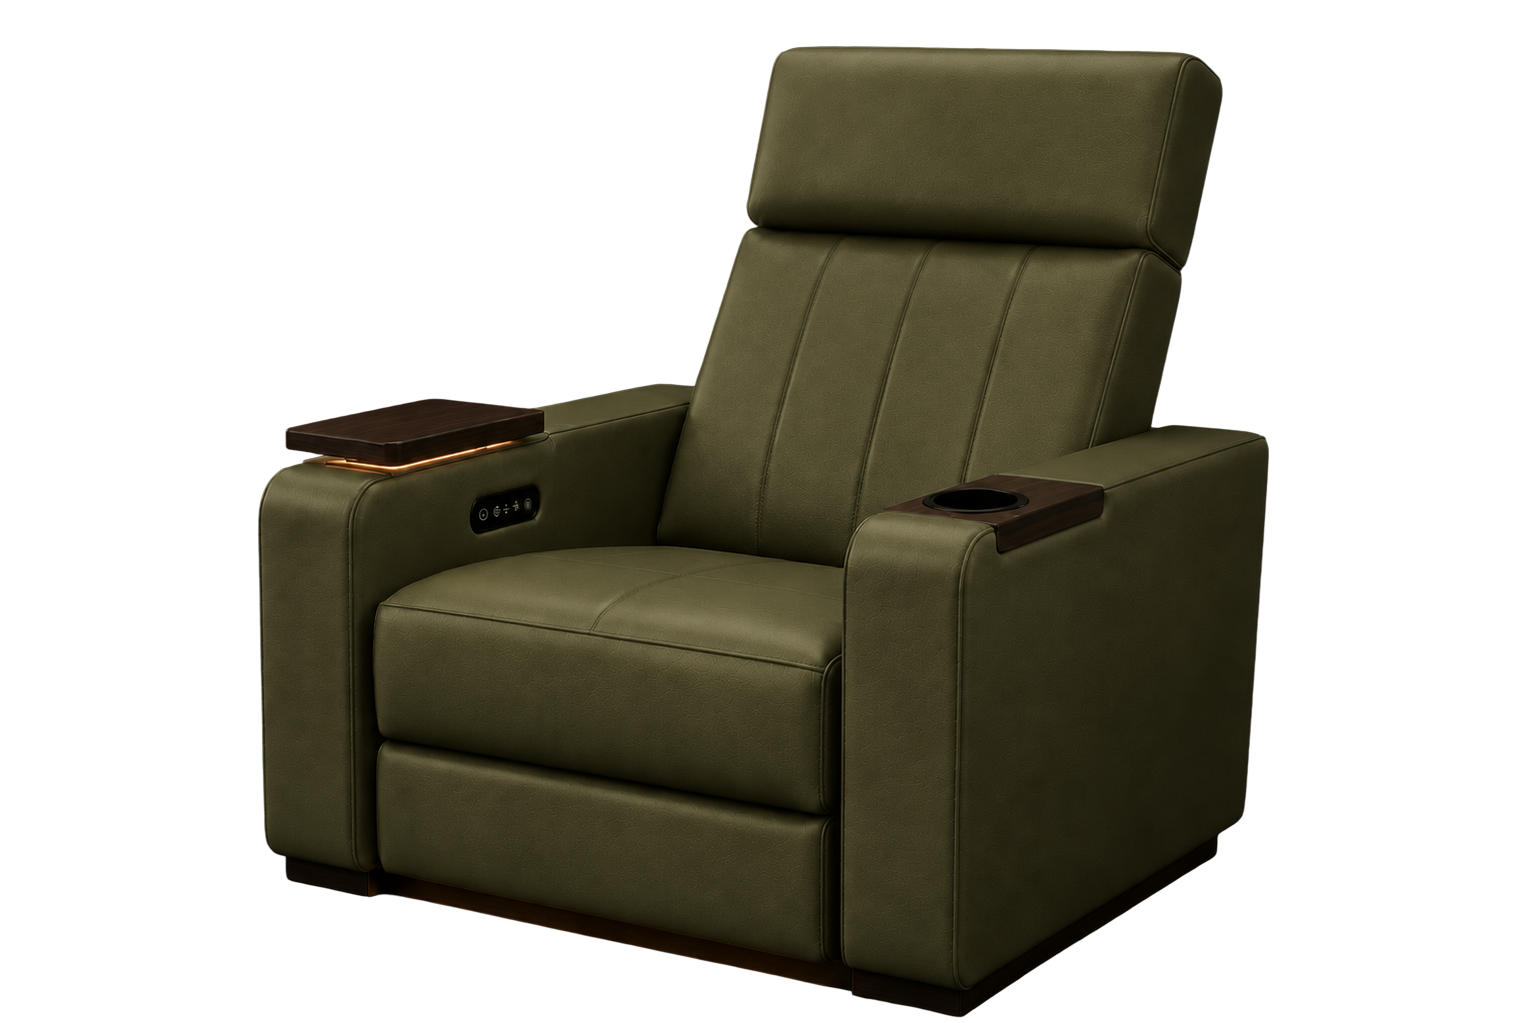
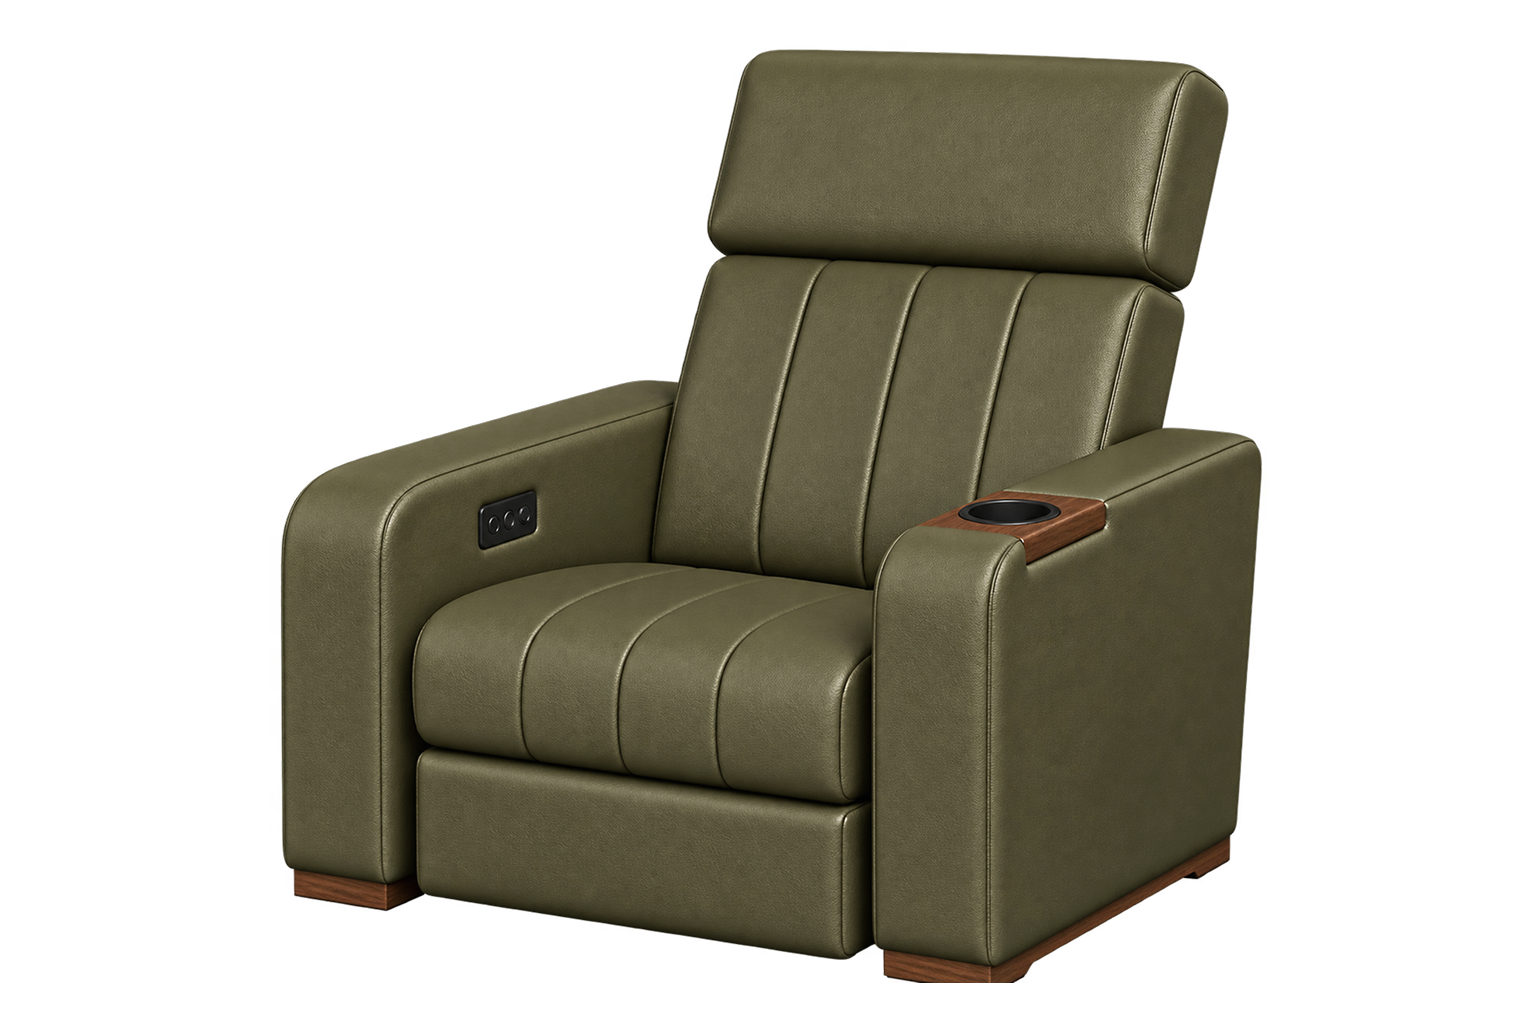
Update product page order, Vesper equipment, and Filozofia Henry photos per client feedback
- Reorder product page sections: features before materials, add Technical features as a materials tab, reorder/rename material tabs
- Add HENRY Command as first Vesper Solo equipment option
- Replace Nova Solo leather color preview photos with no-table cutouts
- Update Filozofia Henry copy, values photos, gallery photos, and manifesto image (transparent, no shade overlay)

diff --git a/files-mentioned-by-the-user-asset/outputs/henry-home-prototype/app/components/product-experience.tsx b/files-mentioned-by-the-user-asset/outputs/henry-home-prototype/app/components/product-experience.tsx
@@ -5,7 +5,7 @@ import type { CSSProperties, PointerEvent as ReactPointerEvent } from "react";
 import Link from "next/link";
 import type { HenryCollection, HenryProduct } from "../collections-data";
 
-type MaterialKey = "leather" | "wood" | "quilting" | "combinations";
+type MaterialKey = "leather" | "wood" | "quilting" | "combinations" | "technical";
 type MaterialSwatch = { name: string; swatchImg: string; previewImg: string };
 
 const novaRoot = "/media/product-pages/nova-solo";
@@ -90,15 +90,16 @@ const equipmentOptions = [
 const vesperSoloEquipmentRoot = "/media/product-pages/vesper-solo/equipment";
 
 const vesperSoloEquipmentOptions = [
-  { key: "poduszka", number: "01", title: "Poduszka Henry", description: "Dodatkowe wsparcie i komfort w dowolnym miejscu fotela.", image: `${vesperSoloEquipmentRoot}/vesper-solo-equipment-01-poduszka-henry.webp` },
-  { key: "stolik", number: "02", title: "Stolik Vesper", description: "Praktyczny stolik boczny dopasowany do bryły fotela.", image: `${vesperSoloEquipmentRoot}/vesper-solo-equipment-02-stolik-vesper.webp` },
-  { key: "zaglowek", number: "03", title: "Regulacja zagłówka Vesper", description: "Precyzyjne dopasowanie podparcia głowy i szyi.", image: `${vesperSoloEquipmentRoot}/vesper-solo-equipment-03-regulacja-zaglowka.webp` },
-  { key: "podgrzewanie", number: "04", title: "Podgrzewanie oparcia i siedziska", description: "Delikatne ciepło w oparciu i siedzisku.", image: `${vesperSoloEquipmentRoot}/vesper-solo-equipment-04-podgrzewanie.webp` },
-  { key: "grzanie-chlodzenie", number: "05", title: "Funkcja grzania i chłodzenia", description: "Dwukierunkowa regulacja temperatury na życzenie.", image: `${vesperSoloEquipmentRoot}/vesper-solo-equipment-05-grzanie-chlodzenie.webp` },
-  { key: "oswietlenie", number: "06", title: "Dodatkowe oświetlenie ambientowe", description: "Subtelne podświetlenie budujące nastrój wieczorem.", image: `${vesperSoloEquipmentRoot}/vesper-solo-equipment-06-oswietlenie.webp` },
-  { key: "glosnik", number: "07", title: "Głośnik", description: "Dźwięk osobisty zintegrowany z fotelem.", image: `${vesperSoloEquipmentRoot}/vesper-solo-equipment-07-glosnik.webp` },
-  { key: "schowek", number: "08", title: "Schowek w podłokietniku", description: "Miejsce na drobiazgi zawsze pod ręką.", image: `${vesperSoloEquipmentRoot}/vesper-solo-equipment-08-schowek.webp` },
-  { key: "niezalezne-mechanizmy", number: "09", title: "Niezależne mechanizmy regulacji", description: "Oparcie i podnóżek regulowane niezależnie od siebie.", image: `${vesperSoloEquipmentRoot}/vesper-solo-equipment-09-niezalezne-mechanizmy.webp` },
+  { key: "henry-command", number: "01", title: "HENRY Command", description: "Inteligentny panel sterowania. Centralne sterowanie funkcjami fotela z poziomu intuicyjnego ekranu dotykowego. Pozycja fotela, pamięć ustawień, masaż, ogrzewanie i Ambient Lighting — wszystko w jednym miejscu.", image: `${vesperSoloEquipmentRoot}/vesper-solo-equipment-00-henry-command.png` },
+  { key: "poduszka", number: "02", title: "Poduszka Henry", description: "Dodatkowe wsparcie i komfort w dowolnym miejscu fotela.", image: `${vesperSoloEquipmentRoot}/vesper-solo-equipment-01-poduszka-henry.webp` },
+  { key: "stolik", number: "03", title: "Stolik Vesper", description: "Praktyczny stolik boczny dopasowany do bryły fotela.", image: `${vesperSoloEquipmentRoot}/vesper-solo-equipment-02-stolik-vesper.webp` },
+  { key: "zaglowek", number: "04", title: "Regulacja zagłówka Vesper", description: "Precyzyjne dopasowanie podparcia głowy i szyi.", image: `${vesperSoloEquipmentRoot}/vesper-solo-equipment-03-regulacja-zaglowka.webp` },
+  { key: "podgrzewanie", number: "05", title: "Podgrzewanie oparcia i siedziska", description: "Delikatne ciepło w oparciu i siedzisku.", image: `${vesperSoloEquipmentRoot}/vesper-solo-equipment-04-podgrzewanie.webp` },
+  { key: "grzanie-chlodzenie", number: "06", title: "Funkcja grzania i chłodzenia", description: "Dwukierunkowa regulacja temperatury na życzenie.", image: `${vesperSoloEquipmentRoot}/vesper-solo-equipment-05-grzanie-chlodzenie.webp` },
+  { key: "oswietlenie", number: "07", title: "Dodatkowe oświetlenie ambientowe", description: "Subtelne podświetlenie budujące nastrój wieczorem.", image: `${vesperSoloEquipmentRoot}/vesper-solo-equipment-06-oswietlenie.webp` },
+  { key: "glosnik", number: "08", title: "Głośnik", description: "Dźwięk osobisty zintegrowany z fotelem.", image: `${vesperSoloEquipmentRoot}/vesper-solo-equipment-07-glosnik.webp` },
+  { key: "schowek", number: "09", title: "Schowek w podłokietniku", description: "Miejsce na drobiazgi zawsze pod ręką.", image: `${vesperSoloEquipmentRoot}/vesper-solo-equipment-08-schowek.webp` },
+  { key: "niezalezne-mechanizmy", number: "10", title: "Niezależne mechanizmy regulacji", description: "Oparcie i podnóżek regulowane niezależnie od siebie.", image: `${vesperSoloEquipmentRoot}/vesper-solo-equipment-09-niezalezne-mechanizmy.webp` },
 ];
 
 const novaLeatherSwatches: MaterialSwatch[] = ["Ivory Mist", "Warm Sand", "Natural Taupe", "Stone", "Cognac", "Olive", "Forest", "Graphite", "Onyx", "Midnight", "Charcoal", "Bordeaux"].map((name, index) => {
@@ -116,11 +117,12 @@ const novaQuiltingSwatches: MaterialSwatch[] = ["Diamond", "Channel", "Chevron",
   return { name, swatchImg: file, previewImg: file };
 });
 
-const materialTabs: Array<{ key: MaterialKey; label: string }> = [
-  { key: "leather", label: "Skóra" },
-  { key: "wood", label: "Drewno" },
-  { key: "quilting", label: "Pikowanie" },
+const materialTabs: Array<{ key: MaterialKey; label: string; captionLabel?: string }> = [
   { key: "combinations", label: "Opcje wyposażenia" },
+  { key: "leather", label: "Barwa skóry", captionLabel: "Naturalna włoska skóra Mezzo Fiore" },
+  { key: "wood", label: "Wykończenie drewna" },
+  { key: "quilting", label: "Styl pikowania" },
+  { key: "technical", label: "Wymiary" },
 ];
 
 // Bottom edge (top% + height%) of each mosaic slot box{A..F} in .product-feature-box,
@@ -185,8 +187,11 @@ export function ProductExperience({ collection, product, isReady, isHero }: { co
     wood: isReady ? novaWoodSwatches : [],
     quilting: isReady ? novaQuiltingSwatches : [],
     combinations: [],
+    technical: [],
   }), [isReady, product.leatherSwatches]);
-  const activeMaterialLabel = materialTabs.find((item) => item.key === materialKey)?.label ?? materialTabs[0].label;
+  const activeMaterial = materialTabs.find((item) => item.key === materialKey) ?? materialTabs[0];
+  const activeMaterialLabel = activeMaterial.label;
+  const activeMaterialCaption = activeMaterial.captionLabel ?? activeMaterial.label;
   const activeSwatches = materialSwatches[materialKey];
   const activeEquipmentOptions = isVesperSolo ? vesperSoloEquipmentOptions : equipmentOptions;
   const activeEquipmentData = activeEquipmentOptions[Math.min(activeEquipmentOption, activeEquipmentOptions.length - 1)];
@@ -321,6 +326,41 @@ export function ProductExperience({ collection, product, isReady, isHero }: { co
         </div>
       </section>
 
+      <section className={`product-features${isVesperSolo ? " product-features--vesper-solo" : ""}`}>
+        {isHero && (
+          <header data-product-reveal>
+            <h2>Luksus w standardzie</h2>
+          </header>
+        )}
+        <div className="product-features__grid-clip" style={{ height: featureGridClipHeight ? `${featureGridClipHeight}px` : undefined }}>
+        <div className="product-features__grid" ref={featureGridRef}>
+          {isHero ? (
+            activeFeatureCards.map((feature, index) => (
+              <article className={`product-feature-box box${String.fromCharCode(65 + index)}${featuresReady ? "" : " is-placeholder"}`} data-product-reveal key={feature.title} style={{ "--reveal-delay": `${(index % 2) * 110}ms` } as CSSProperties}>
+                <figure>
+                  {featuresReady ? <img src={feature.image} alt={feature.title} /> : <><span>H</span><small>Materiały w przygotowaniu</small></>}
+                </figure>
+                <div className="product-feature-box__caption">
+                  <h3>{feature.title}</h3>
+                  <p>{feature.copy}</p>
+                </div>
+              </article>
+            ))
+          ) : (
+            productPhotoCards.map((card, index) => (
+              <article className={`product-feature-box box${String.fromCharCode(65 + index)}`} data-product-reveal key={card.title} style={{ "--reveal-delay": `${(index % 2) * 110}ms` } as CSSProperties}>
+                <figure><img src={product.image} alt={product.name} /></figure>
+                <div className="product-feature-box__caption">
+                  <h3>{card.title}</h3>
+                  <p>{card.copy}</p>
+                </div>
+              </article>
+            ))
+          )}
+        </div>
+        </div>
+      </section>
+
       {isHero && (
       <section className="product-materials">
         <header data-product-reveal>
@@ -357,6 +397,10 @@ export function ProductExperience({ collection, product, isReady, isHero }: { co
                 </figure>
               </article>
             </div>
+          ) : materialKey === "technical" ? (
+            <figure className={`material-lab__technical${isReady ? "" : " is-placeholder"}`}>
+              {isReady ? <img src={`${novaRoot}/dimensions.png`} alt="Nova Solo — widok z przodu, boku i z góry z wymiarami" /> : <><span>H</span><small>Rysunek techniczny w przygotowaniu</small></>}
+            </figure>
           ) : activeSwatches.length > 0 ? (
             <div className="material-lab__content">
               <div className="material-lab__swatches">
@@ -375,7 +419,7 @@ export function ProductExperience({ collection, product, isReady, isHero }: { co
                     <img key={`current-${activeSwatchData.previewImg}`} className="material-lab__preview-img is-current" src={activeSwatchData.previewImg} alt={`${product.name} — ${activeSwatchData.name}`} />
                   )}
                 </div>
-                <figcaption key={activeSwatchData?.name}><span>{activeMaterialLabel}</span><strong>{activeSwatchData?.name}</strong></figcaption>
+                <figcaption key={activeSwatchData?.name}><span>{activeMaterialCaption}</span><strong>{activeSwatchData?.name}</strong></figcaption>
               </figure>
             </div>
           ) : (
@@ -385,41 +429,6 @@ export function ProductExperience({ collection, product, isReady, isHero }: { co
       </section>
       )}
 
-      <section className={`product-features${isVesperSolo ? " product-features--vesper-solo" : ""}`}>
-        {isHero && (
-          <header data-product-reveal>
-            <h2>Technologia która znika</h2>
-          </header>
-        )}
-        <div className="product-features__grid-clip" style={{ height: featureGridClipHeight ? `${featureGridClipHeight}px` : undefined }}>
-        <div className="product-features__grid" ref={featureGridRef}>
-          {isHero ? (
-            activeFeatureCards.map((feature, index) => (
-              <article className={`product-feature-box box${String.fromCharCode(65 + index)}${featuresReady ? "" : " is-placeholder"}`} data-product-reveal key={feature.title} style={{ "--reveal-delay": `${(index % 2) * 110}ms` } as CSSProperties}>
-                <figure>
-                  {featuresReady ? <img src={feature.image} alt={feature.title} /> : <><span>H</span><small>Materiały w przygotowaniu</small></>}
-                </figure>
-                <div className="product-feature-box__caption">
-                  <h3>{feature.title}</h3>
-                  <p>{feature.copy}</p>
-                </div>
-              </article>
-            ))
-          ) : (
-            productPhotoCards.map((card, index) => (
-              <article className={`product-feature-box box${String.fromCharCode(65 + index)}`} data-product-reveal key={card.title} style={{ "--reveal-delay": `${(index % 2) * 110}ms` } as CSSProperties}>
-                <figure><img src={product.image} alt={product.name} /></figure>
-                <div className="product-feature-box__caption">
-                  <h3>{card.title}</h3>
-                  <p>{card.copy}</p>
-                </div>
-              </article>
-            ))
-          )}
-        </div>
-        </div>
-      </section>
-
       <Link id="aranzacje" href={`/kolekcje/${collection.slug}/inspiracje?from=${encodeURIComponent(`/kolekcje/${collection.slug}/${product.slug}#aranzacje`)}`} className={`product-arrangements${isHero ? "" : " product-arrangements--tight"}`} data-product-reveal>
         <div className="product-arrangements__frame">
           <img className="product-arrangements__img" src={product.arrangementsImage || product.image} alt={`${collection.name} w aranżacjach`} />
@@ -427,15 +436,6 @@ export function ProductExperience({ collection, product, isReady, isHero }: { co
         </div>
         <h2 className="product-arrangements__heading">Zobacz {collection.name}<br />w aranżacjach <span className="diagonal-arrow" aria-hidden="true" /></h2>
       </Link>
-
-      <section className="product-specification">
-        <header data-product-reveal>
-          <h2>Technical <em>features</em></h2>
-        </header>
-        <figure className={isReady ? "" : "is-placeholder"} data-product-reveal>
-          {isReady ? <img src={`${novaRoot}/dimensions.png`} alt="Nova Solo — widok z przodu, boku i z góry z wymiarami" /> : <><span>Rysunek techniczny</span><small>W przygotowaniu</small></>}
-        </figure>
-      </section>
     </>
   );
 }

diff --git a/files-mentioned-by-the-user-asset/outputs/henry-home-prototype/app/filozofia-henry/philosophy-experience.tsx b/files-mentioned-by-the-user-asset/outputs/henry-home-prototype/app/filozofia-henry/philosophy-experience.tsx
@@ -10,6 +10,8 @@ const sketchGalleryImages = [
   "/media/filozofia-henry/sketch-gallery-2.png",
   "/media/filozofia-henry/sketch-gallery-3.png",
   "/media/filozofia-henry/sketch-gallery-4-gmina-logo.png",
+  "/media/filozofia-henry/sketch-gallery-5-foto2.jpg",
+  "/media/filozofia-henry/sketch-gallery-6-foto3.png",
 ];
 
 // Karuzela historii tymczasowo wyłączona (patrz sekcja "Dziedzictwo kina" niżej) — dane zachowane na wypadek powrotu.
@@ -67,9 +69,9 @@ const timeline = [
 ];
 
 const values = [
-  { title: "Niezawodność", image: "/media/filozofia-henry/value-forma.png" },
-  { title: "Komfort", image: "/media/filozofia-henry/value-komfort.png" },
-  { title: "Precyzja", image: "/media/filozofia-henry/value-trwalosc.png" },
+  { title: "Niezawodność", image: "/media/filozofia-henry/value-niezawodnosc.png" },
+  { title: "Komfort", image: "/media/filozofia-henry/value-komfort-foto5.png" },
+  { title: "Precyzja", image: "/media/filozofia-henry/value-precyzja-foto4.png" },
 ];
 
 const manifestoMessages = [
@@ -338,11 +340,7 @@ export function PhilosophyExperience() {
       </section>
 
       <figure className={styles.hero} data-philosophy-reveal>
-        <picture>
-          <source media="(max-width: 640px)" srcSet="/media/filozofia-henry/hero-mobile.png" />
-          <source media="(max-width: 980px)" srcSet="/media/filozofia-henry/hero-tablet.png" />
-          <img src="/media/filozofia-henry/hero.png" alt="Rzędy zabytkowych foteli kinowych oświetlonych światłem projektora" />
-        </picture>
+        <img src="/media/filozofia-henry/hero-foto7.png" alt="Rzędy zabytkowych foteli kinowych oświetlonych światłem projektora" />
       </figure>
 
       <section className={styles.designed} data-philosophy-reveal>
@@ -396,11 +394,11 @@ export function PhilosophyExperience() {
           />
         </div>
         <div className={styles.cinemaGridText}>
-          <h2>25 lat dla największych kin na świecie</h2>
+          <h2>Prawdopodobnie siedziałeś na naszym fotelu…</h2>
           <p>
             HENRY wyrasta z ponad 25 lat doświadczenia w projektowaniu i produkcji foteli kinowych. Przez lata
-            tworzyliśmy rozwiązania dla największych operatorów kinowych na świecie, w tym dla Cineworld,
-            dostarczając ponad 1,5 miliona foteli do obiektów w wielu krajach.
+            tworzyliśmy rozwiązania dla największych operatorów kinowych na świecie, takich jak Cineworld, Pathe,
+            Cineplexx, Helios, Cinema City, dostarczając blisko 2 miliony foteli do obiektów w wielu krajach.
           </p>
         </div>
       </section>
@@ -425,7 +423,7 @@ export function PhilosophyExperience() {
       </p>
 
       <section className={styles.manifesto} data-philosophy-reveal>
-        <img src="/media/filozofia-henry/manifesto.png" alt="Fotel HENRY w profilu z nałożoną siatką proporcji Fibonacciego" />
+        <img src="/media/filozofia-henry/manifesto-transparent.png" alt="Fotel HENRY w profilu z nałożoną siatką proporcji Fibonacciego" />
         <div className={styles.manifestoShade} />
         <div className={styles.manifestoCopy}>
           <h2 key={activeManifesto}>

diff --git a/files-mentioned-by-the-user-asset/outputs/henry-home-prototype/app/globals.css b/files-mentioned-by-the-user-asset/outputs/henry-home-prototype/app/globals.css
@@ -3677,6 +3677,36 @@ button:hover .diagonal-arrow,
   color: var(--gold);
 }
 
+.material-lab__technical {
+  width: 100%;
+  min-height: 280px;
+  margin: 0 auto;
+  overflow: hidden;
+  background: #090909;
+}
+
+.material-lab__technical img {
+  width: 100%;
+  height: 100%;
+  object-fit: cover;
+}
+
+.material-lab__technical.is-placeholder {
+  display: grid;
+  place-content: center;
+  justify-items: center;
+  gap: 12px;
+  border: 1px solid rgba(217, 163, 65, .14);
+  color: #716a63;
+  text-transform: uppercase;
+  letter-spacing: .14em;
+  font-size: 9px;
+}
+
+.material-lab__technical.is-placeholder small {
+  color: var(--gold);
+}
+
 .product-materials {
   padding: 18vh var(--product-gutter) 5vh;
 }
@@ -3747,7 +3777,7 @@ button:hover .diagonal-arrow,
   aspect-ratio: 1;
   overflow: hidden;
   border: 1px solid transparent;
-  border-radius: 2px;
+  border-radius: 50%;
   transition: border-color .3s ease, transform .4s var(--ease);
 }
 
@@ -3801,6 +3831,7 @@ button:hover .diagonal-arrow,
 
 .material-lab__preview figcaption span {
   color: #77716b;
+  font-size: 12px;
 }
 
 .material-lab__preview figcaption strong {

diff --git a/files-mentioned-by-the-user-asset/outputs/henry-home-prototype/app/filozofia-henry/philosophy.module.css b/files-mentioned-by-the-user-asset/outputs/henry-home-prototype/app/filozofia-henry/philosophy.module.css
@@ -136,7 +136,7 @@
 .manifesto { position: relative; width: 90%; height: 82svh; min-height: 560px; margin: 0 auto; overflow: hidden; }
 .manifesto > img { width: 100%; height: 100%; object-fit: cover; transition: transform 1.5s cubic-bezier(.16, 1, .3, 1); }
 .manifesto:hover > img { transform: scale(1.015); }
-.manifestoShade { position: absolute; inset: 0; background: linear-gradient(0deg, rgba(10, 9, 8, .75), rgba(10, 9, 8, .12) 55%); }
+.manifestoShade { position: absolute; inset: 0; }
 .manifestoCopy { position: absolute; z-index: 2; left: 0; right: 0; bottom: 8vh; text-align: center; }
 .manifestoCopy > span { color: #d9a341; font-size: 9px; letter-spacing: .18em; text-transform: uppercase; }
 .manifestoCopy h2 { margin: 0 auto; max-width: 977px; padding: 0 var(--gutter); font-size: clamp(1.4rem, 2.4vw, 2rem); font-weight: 300; line-height: 1.35; letter-spacing: -.01em; animation: fadeIn 1.1s ease both; }
